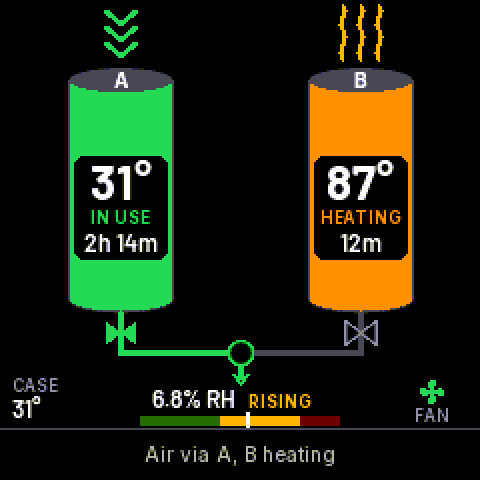
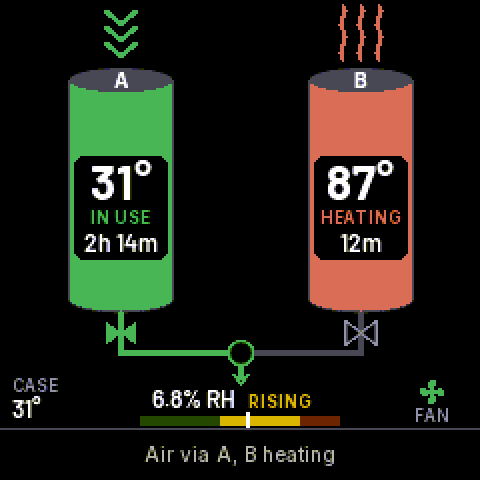
Switch the screen to the Semantic palette
The customer chose GitHub's status hues from three muted options: green
success = in use, yellow attention = wet, orange severe = heating, blue
info = cooling, purple done = ready, red danger = fault. Sprites with
baked-in colours are re-tinted; the gauge's attention zones and the OVR
badge follow the wet yellow. Captures regenerated.

diff --git a/esphome/packages/display_ui.h b/esphome/packages/display_ui.h
@@ -5,7 +5,8 @@
 // (packages/display-scenarios.yaml). The ui_draw script in
 // packages/display-draw.yaml gathers the state. Geometry and rules follow
 // docs/superpowers/specs/2026-09-14-display-ui-design.md sections 2, 4, 5,
-// with the cylinder colours of 2026-09-14-cylinder-state-colours-design.md.
+// with the cylinder colours of 2026-09-14-cylinder-state-colours-design.md
+// and the palette of 2026-09-15-semantic-palette-design.md.
 #include <cmath>
 #include <cstdint>
 #include <cstdio>
@@ -63,11 +64,16 @@ inline uint32_t uptime_since_first_frame(uint32_t now) {
 // RGB 3-3-2 grid colours (display UI spec section 5; cylinder colours spec
 // section 1).
 static const Color BLACK(0, 0, 0), WHITE(255, 255, 255);
-static const Color GREEN(36, 219, 85), ORANGE(255, 146, 0), AMBER(255, 182, 0), CYAN(0, 219, 255);
-static const Color BLUE(36, 109, 255), PINK(255, 146, 170);
+// "Semantic" palette (2026-09-15-semantic-palette-design.md): GitHub's status
+// hues. GREEN success = in use, YELLOW attention = wet and the gauge's
+// RISING/HIGH, ORANGE severe = heating, CYAN info = cooling, PURPLE done =
+// ready, RED danger = fault.
+static const Color GREEN(73, 182, 85), YELLOW(219, 182, 0), ORANGE(219, 109, 85), CYAN(73, 182, 255);
+static const Color PURPLE(146, 109, 255), RED(255, 73, 85);
+static const Color AMBER = YELLOW;  // gauge attention zones and the OVR badge
 static const Color SHELL(73, 73, 85), DIM(146, 146, 170), STRIP_TXT(182, 182, 170);
-static const Color RED_STRIP(219, 36, 36), RED(255, 36, 36);
-static const Color DRY_DIM(36, 109, 36), AMBER_DIM(109, 73, 0), RED_DIM(109, 0, 0);
+static const Color RED_STRIP(219, 73, 85);
+static const Color DRY_DIM(36, 73, 36), AMBER_DIM(109, 73, 0), RED_DIM(109, 36, 36);
 
 static const float HIGH_FRACTION = 1.0f / 3.0f;  // top third of the arm..swap band reads HIGH
 static const uint32_t BOOT_IP_MS = 60000;        // the strip shows the IP this long after boot
@@ -106,7 +112,7 @@ inline void rounded_rect(Display &it, int x, int y, int w, int h, int r, Color c
 
 inline void pack_roles(const UiState &s, PackView &a, PackView &b) {
   static const char *const SB_NAMES[] = {"WET", "HEATING", "COOLING", "READY"};
-  static const Color SB_COLORS[] = {PINK, ORANGE, CYAN, BLUE};
+  static const Color SB_COLORS[] = {YELLOW, ORANGE, CYAN, PURPLE};
   a = PackView{};
   b = PackView{};
   a.cx = CX_A;

diff --git a/docs/superpowers/specs/2026-09-15-semantic-palette-design.md b/docs/superpowers/specs/2026-09-15-semantic-palette-design.md
@@ -1,0 +1,34 @@
+# Semantic palette — design
+
+Date: 2026-09-15
+Status: chosen by the customer from three options
+Amends: `2026-09-14-cylinder-state-colours-design.md` §1 (colours only; the
+mapping of states to cylinders is unchanged)
+
+## Goal
+
+The customer wanted a modern, muted palette for a technical audience, with
+no pink. Of the three options offered (Indicator, Semantic, Aurora) they
+chose Semantic: GitHub's own status hues, which that audience already reads
+without thinking. The cycle now reads as a status board rather than a
+thermometer.
+
+## Colours
+
+All on the panel's RGB 3-3-2 grid.
+
+| State | Meaning borrowed | Colour | Constant |
+|---|---|---|---|
+| IN USE | success | `#49B655` (73,182,85) | `GREEN` |
+| WET | attention: needs regeneration | `#DBB600` (219,182,0) | `YELLOW` |
+| HEATING | severe: heater energised | `#DB6D55` (219,109,85) | `ORANGE` |
+| COOLING | informational: nothing to do | `#49B6FF` (73,182,255) | `CYAN` |
+| READY | done, like a merged PR | `#926DFF` (146,109,255) | `PURPLE` |
+| FAULT | danger | `#FF4955` (255,73,85) | `RED` |
+
+Everything that shared a colour with a state follows it: chevrons, lit
+air path, open valve and fan-on take `GREEN`; heat waves take `ORANGE`;
+the gauge's RISING/HIGH zones and the OVR badge take `YELLOW` (`AMBER` is
+now an alias for it); the fault strip is a darker `RED_STRIP` (219,73,85).
+`PINK` and `BLUE` are gone. Sprites with baked-in colours (`flow-in`,
+`flow-out`, `lit-a`, `lit-b`, `valve-open`) were re-tinted to match.

diff --git a/docs/host-preview.md b/docs/host-preview.md
@@ -47,9 +47,9 @@ Useful screen states and how to reach them:
 
 | Screen | How |
 |---|---|
-| A IN USE (solid green), B WET (solid pink), green chevrons into the top of A, air path lit down the A branch | Fresh start |
-| B turns solid orange, HEATING, amber heat waves rising from the top of B | Sim Speed 60, wait about a minute |
-| B turns cyan (COOLING), then blue (READY), then the path moves to B | Keep waiting |
+| A IN USE (solid green), B WET (solid yellow), green chevrons into the top of A, air path lit down the A branch | Fresh start |
+| B turns solid orange, HEATING, orange heat waves rising from the top of B | Sim Speed 60, wait about a minute |
+| B turns blue (COOLING), then purple (READY), then the path moves to B | Keep waiting |
 | Gauge word RISING / HIGH / OVER, OVR badge top right | Override Humidity on, Override RH 6 / 9 / 12 |
 | OFF on both packs, nothing lit, strip "Disabled" | Dryer Enabled off |
 | Red strip "FAULT · ...", the faulted pack solid red | Sim Heater Max Temp 130, wait for heating |

diff --git a/CLAUDE.md b/CLAUDE.md
@@ -51,7 +51,8 @@ twelve screen states (`packages/display-scenarios.yaml`) so
 into `docs/display/`. The screen design is in
 `docs/superpowers/specs/2026-09-14-display-ui-design.md`, with the cylinders
 coloured by state per `docs/superpowers/specs/2026-09-14-cylinder-state-colours-design.md`
-and airflow in/out of the pack tops per `docs/superpowers/specs/2026-09-15-airflow-indicators-design.md`.
+airflow in/out of the pack tops per `docs/superpowers/specs/2026-09-15-airflow-indicators-design.md`,
+and the colours themselves per `docs/superpowers/specs/2026-09-15-semantic-palette-design.md`.
 Base must only reference the five sensor ids `air_rh`, `air_temp`, `pack_a_temp`, `pack_b_temp`,
 `case_temp` from the hardware package; `display-draw.yaml` additionally
 reads `ip_addr` from the platform package. `hw-real.yaml` is the pin-map source of truth for sensors,

diff --git a/docs/superpowers/specs/2026-09-14-cylinder-state-colours-design.md b/docs/superpowers/specs/2026-09-14-cylinder-state-colours-design.md
@@ -3,7 +3,9 @@
 Date: 2026-09-14
 Status: approved in conversation
 Amends: `2026-09-14-display-ui-design.md` (the display UI spec)
-Amended by: `2026-09-15-airflow-indicators-design.md` (heater glow and top
+Amended by: `2026-09-15-semantic-palette-design.md` (the six colours
+themselves were replaced by the customer's chosen palette) and
+`2026-09-15-airflow-indicators-design.md` (heater glow and top
 pipes replaced by airflow indicators; `heater_on_a/b` assets renamed)
 
 ## Goal
